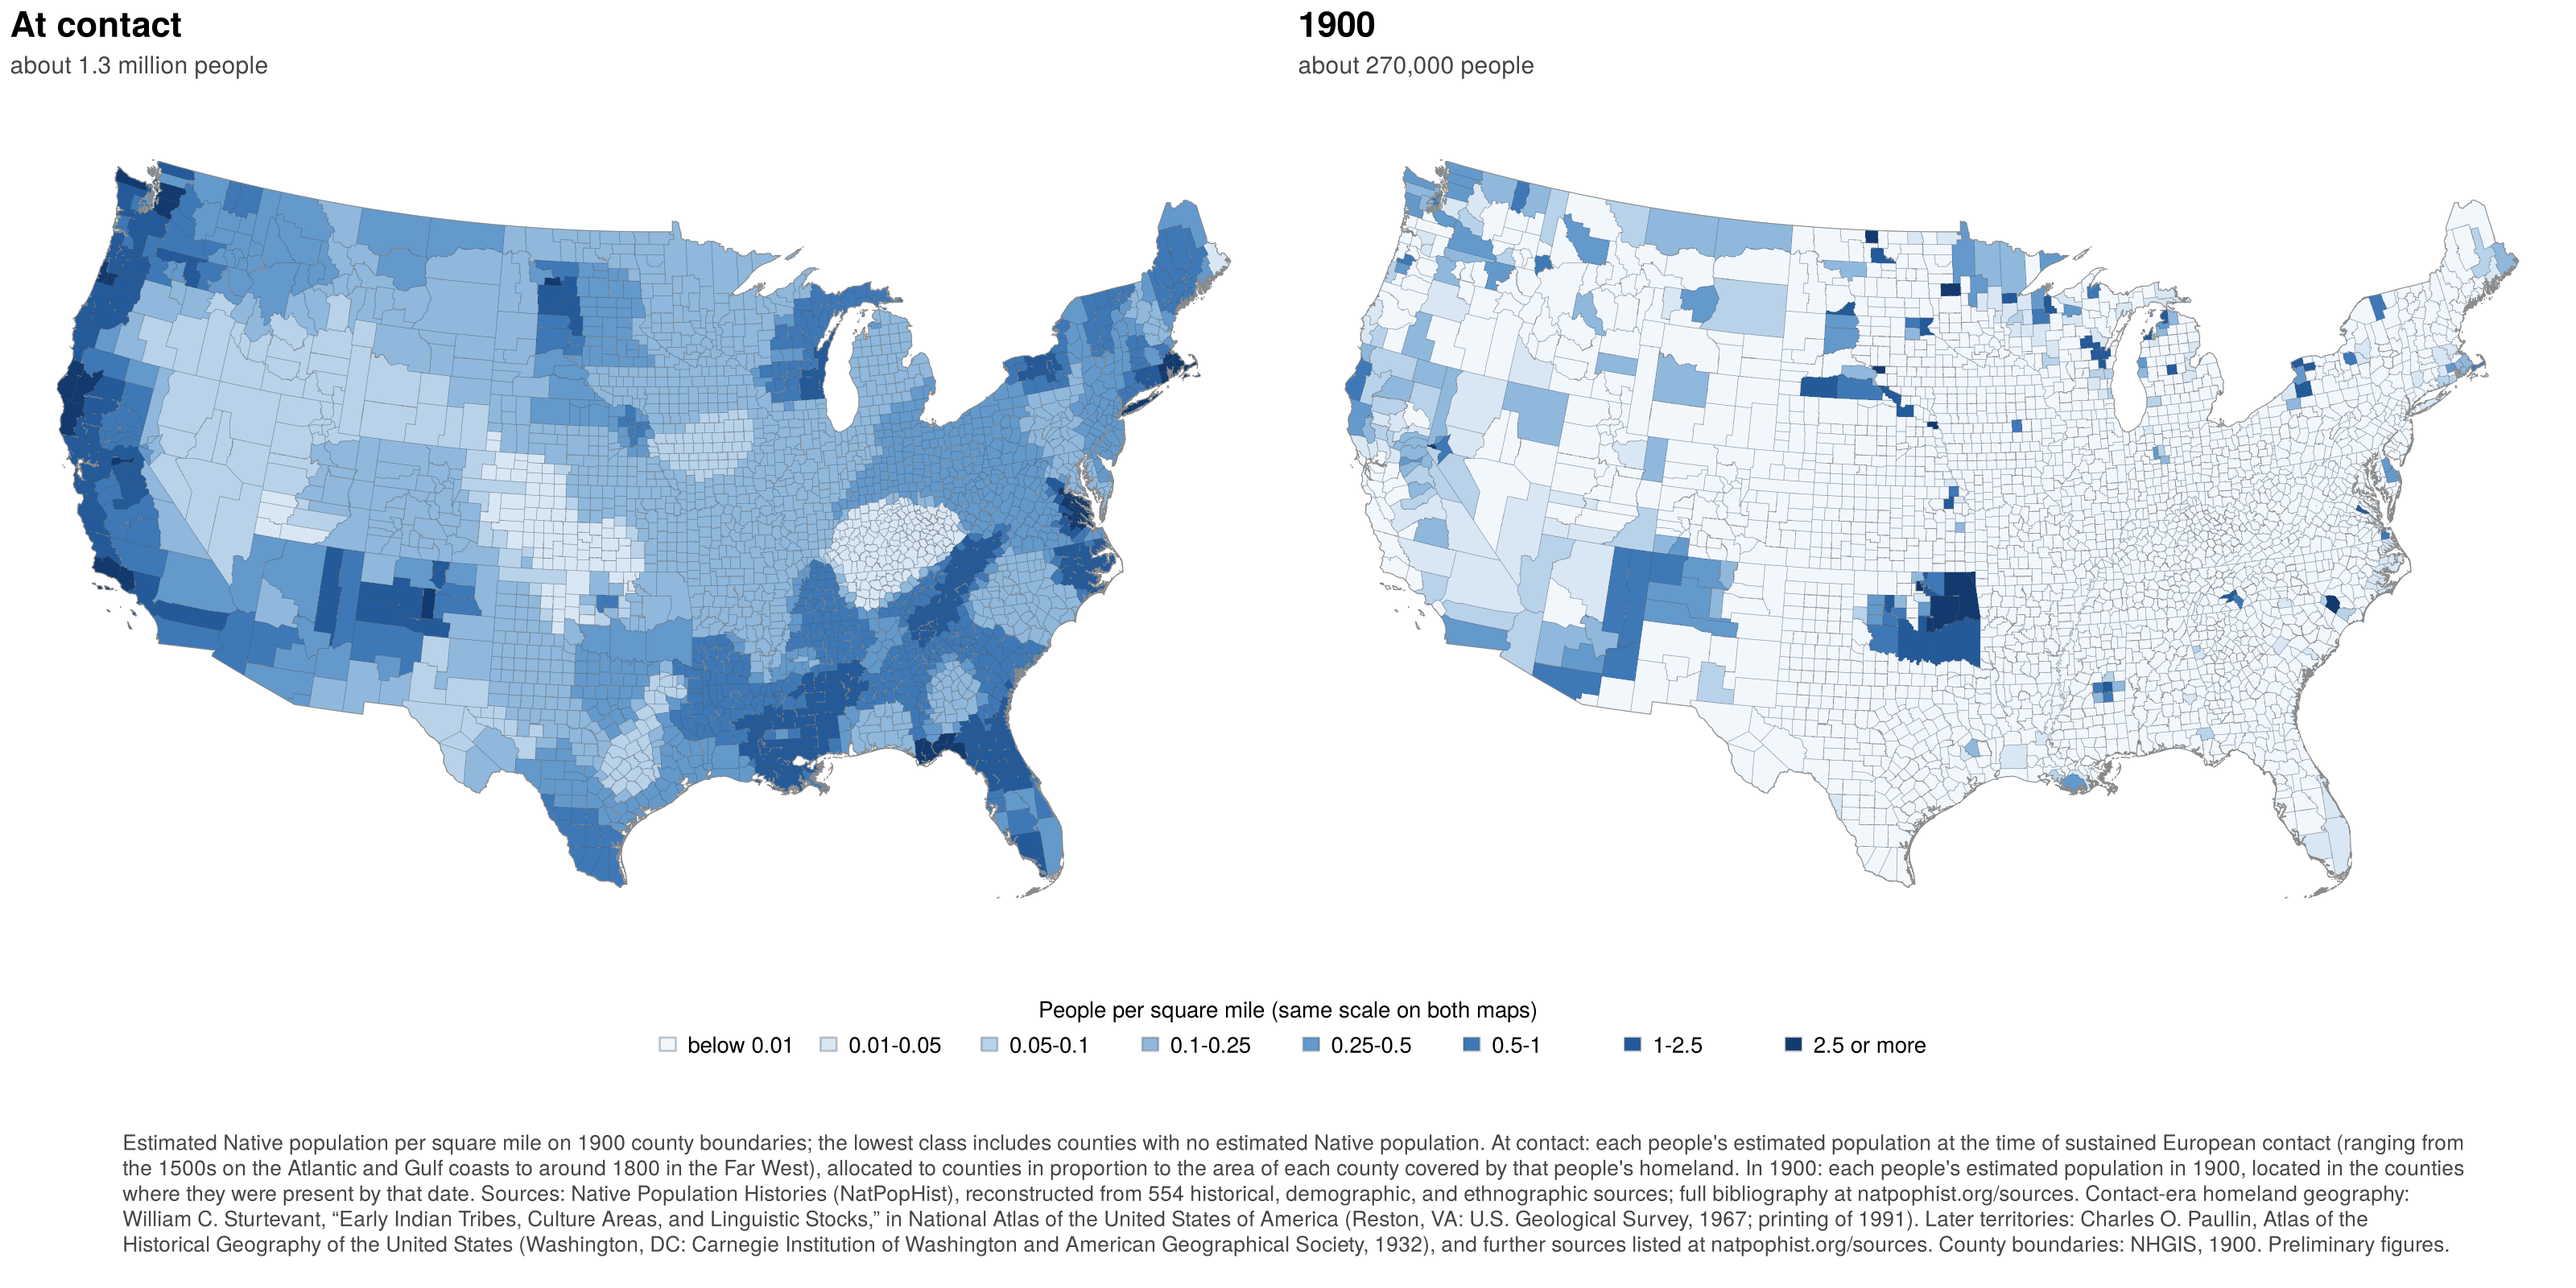
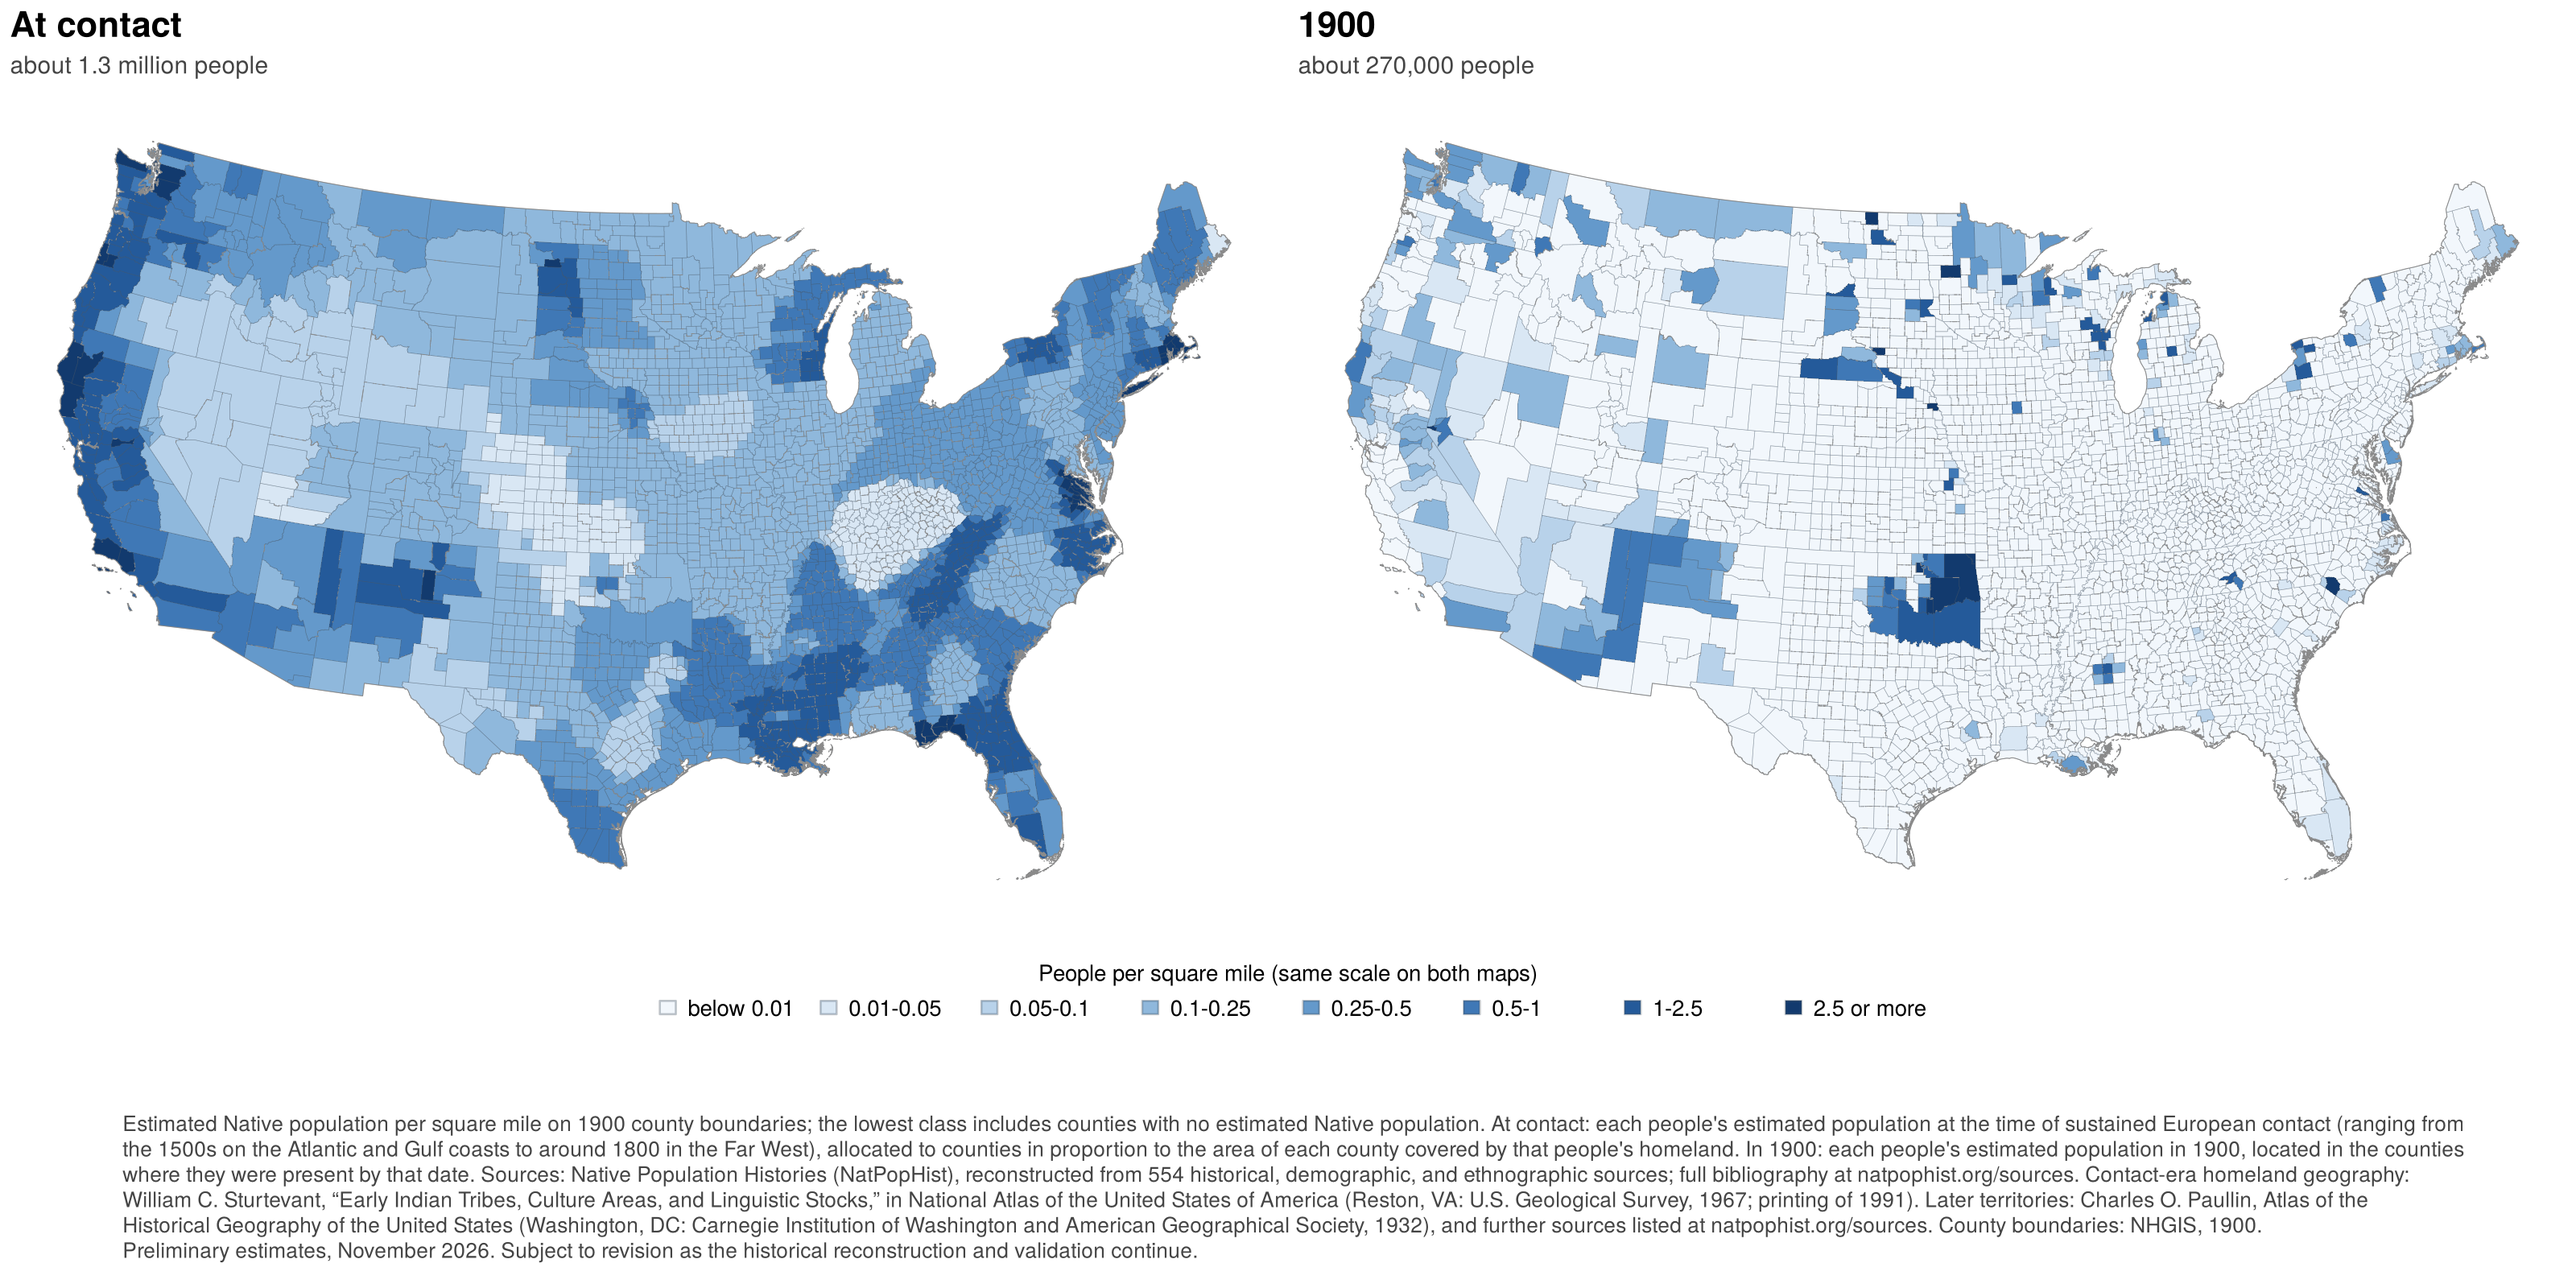
Homepage: preliminary note moved into the map's source note; map heading aligned with text column
Claude-Session: https://claude.ai/code/session_01X2kNZ2NDTrfem8irbZsLUo

diff --git a/styles.css b/styles.css
@@ -1,7 +1,7 @@
 /* Homepage map: wide centerpiece below the reading column */
-.natmap { margin-top: 1.25rem; margin-bottom: 0.5rem; }
+.natmap { margin-top: 0; margin-bottom: 1rem; }
 .natmap-figure { margin: 0 auto; width: min(94vw, 1660px); max-width: 100%; }
 .natmap-figure img { display: block; width: 100%; height: auto; }
-.natmap-heading { caption-side: top; text-align: center; font-size: 1rem; font-weight: 600; color: #333; margin: 0 0 0.4rem; }
+.natmap-heading { display: block; font-size: 1rem; font-weight: 600; color: #333; margin: 1.5rem 0 0.4rem; }   /* aligned with the text column */
 .natmap-open { text-align: center; font-size: 0.8rem; margin: 0.2rem 0 0; }
 .natmap-open a { color: #555; }
